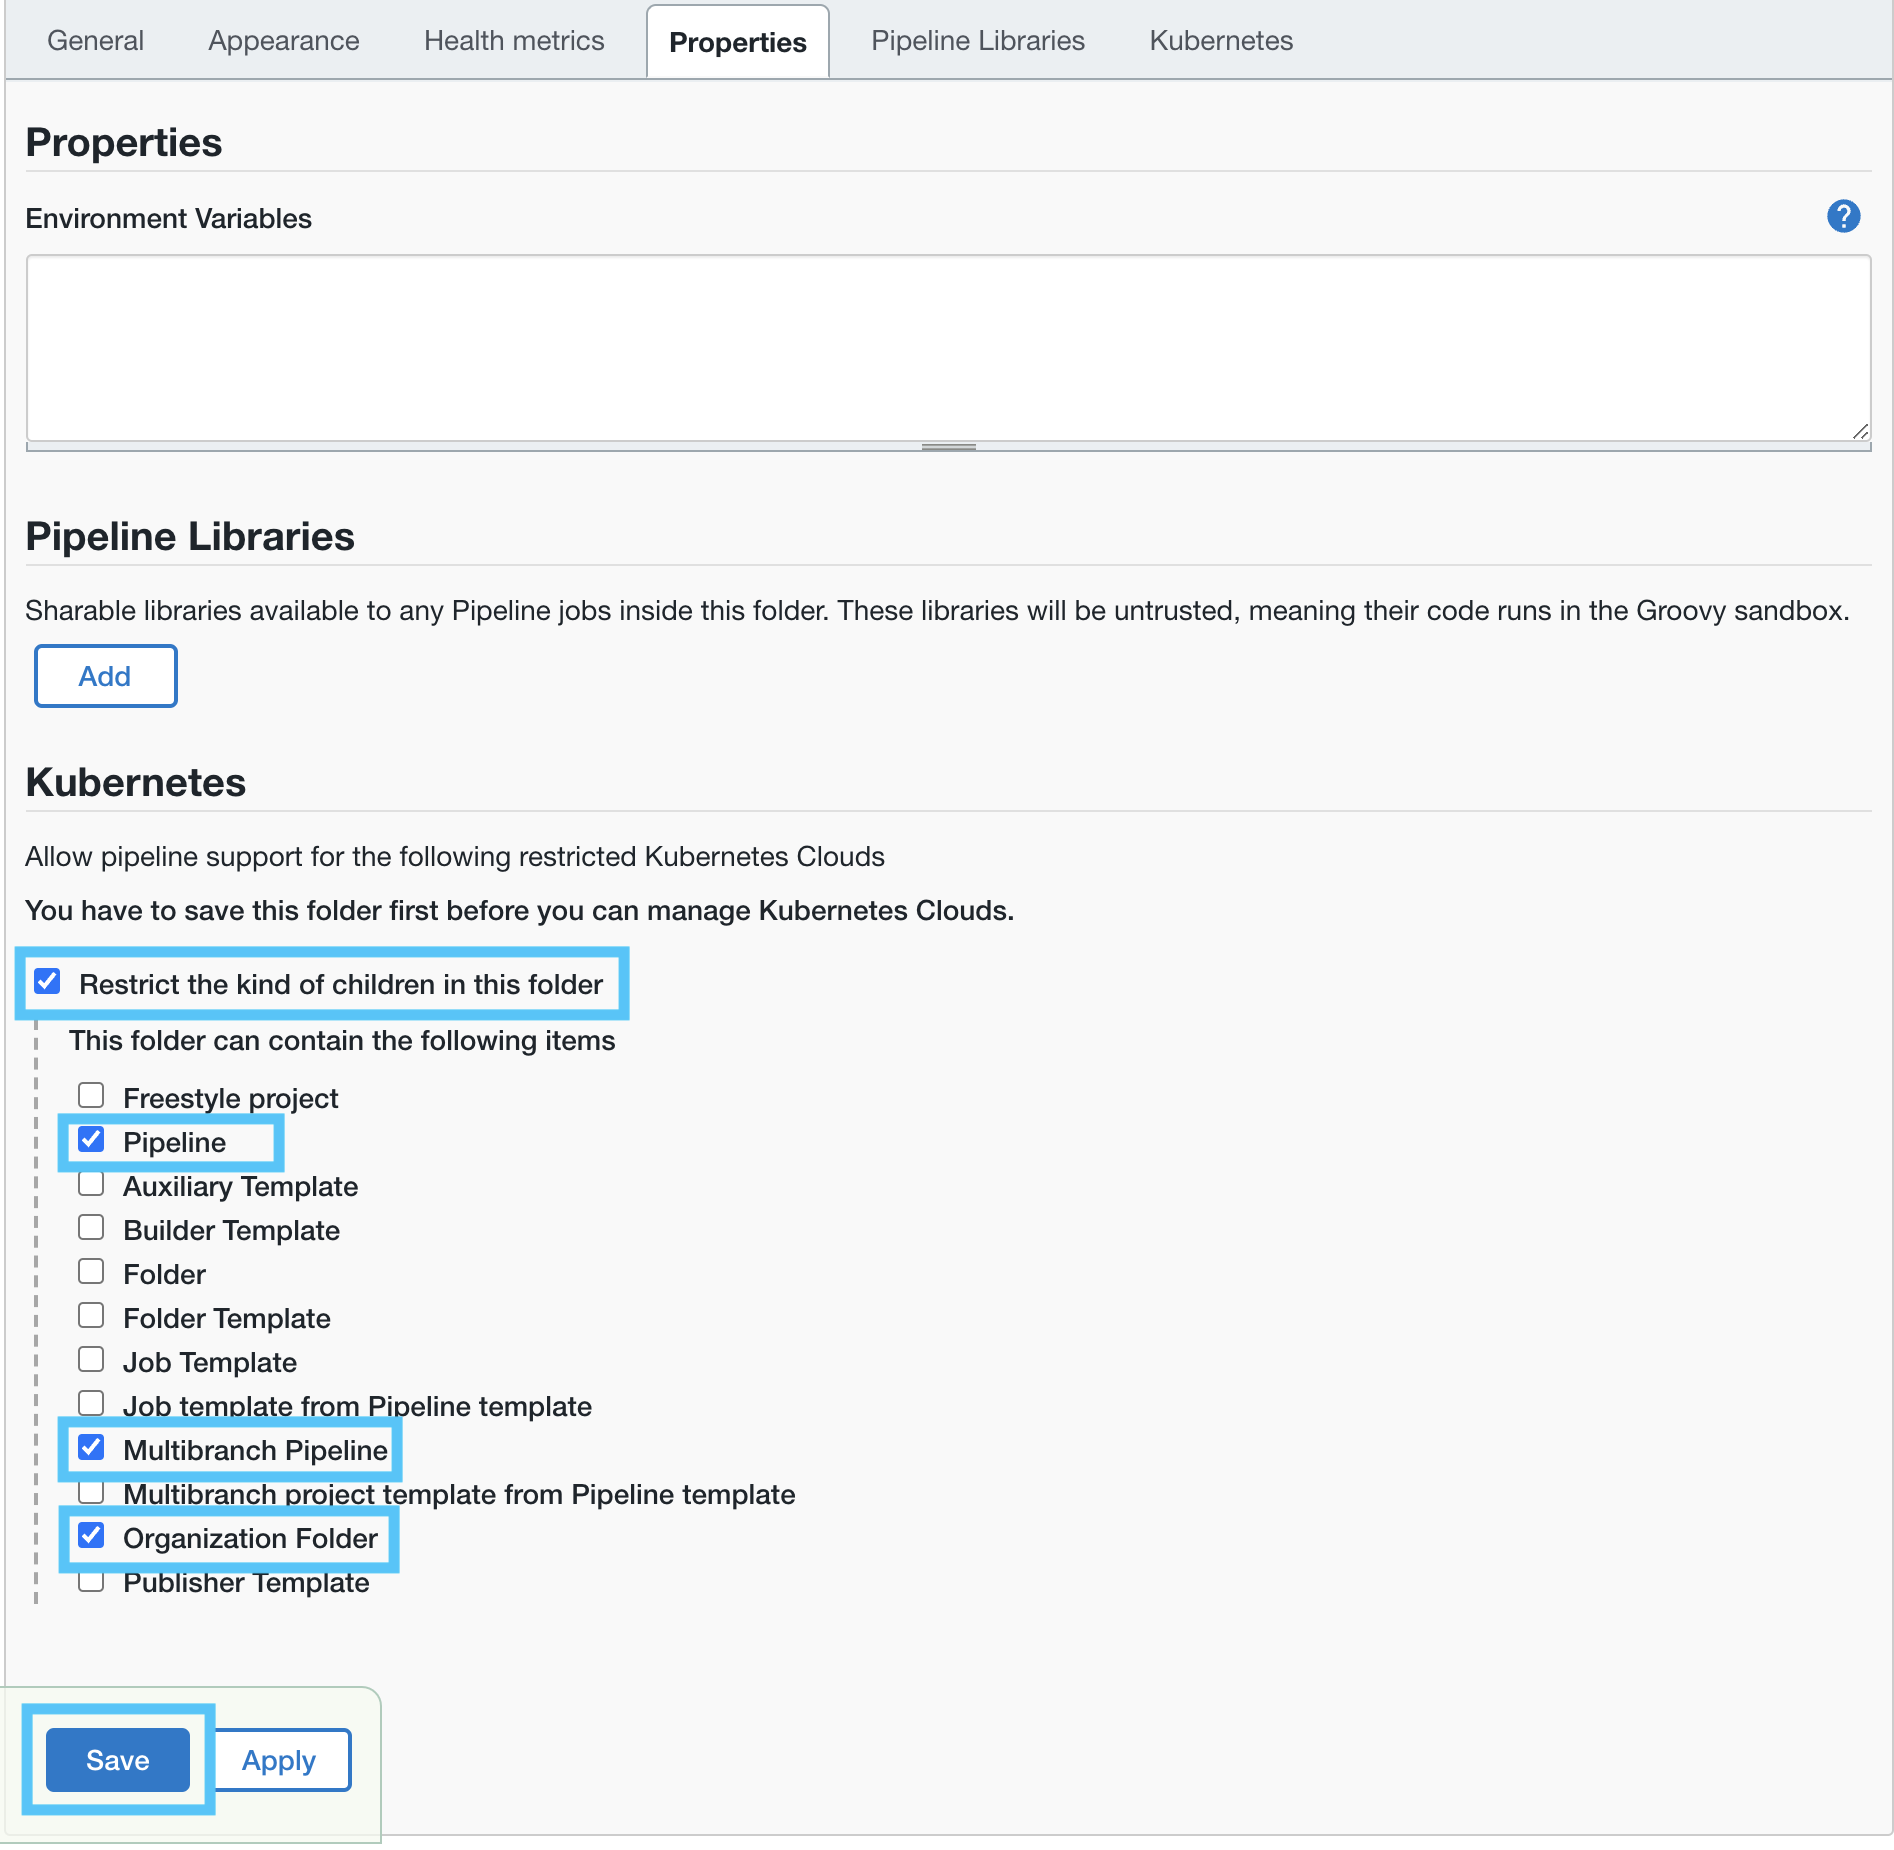
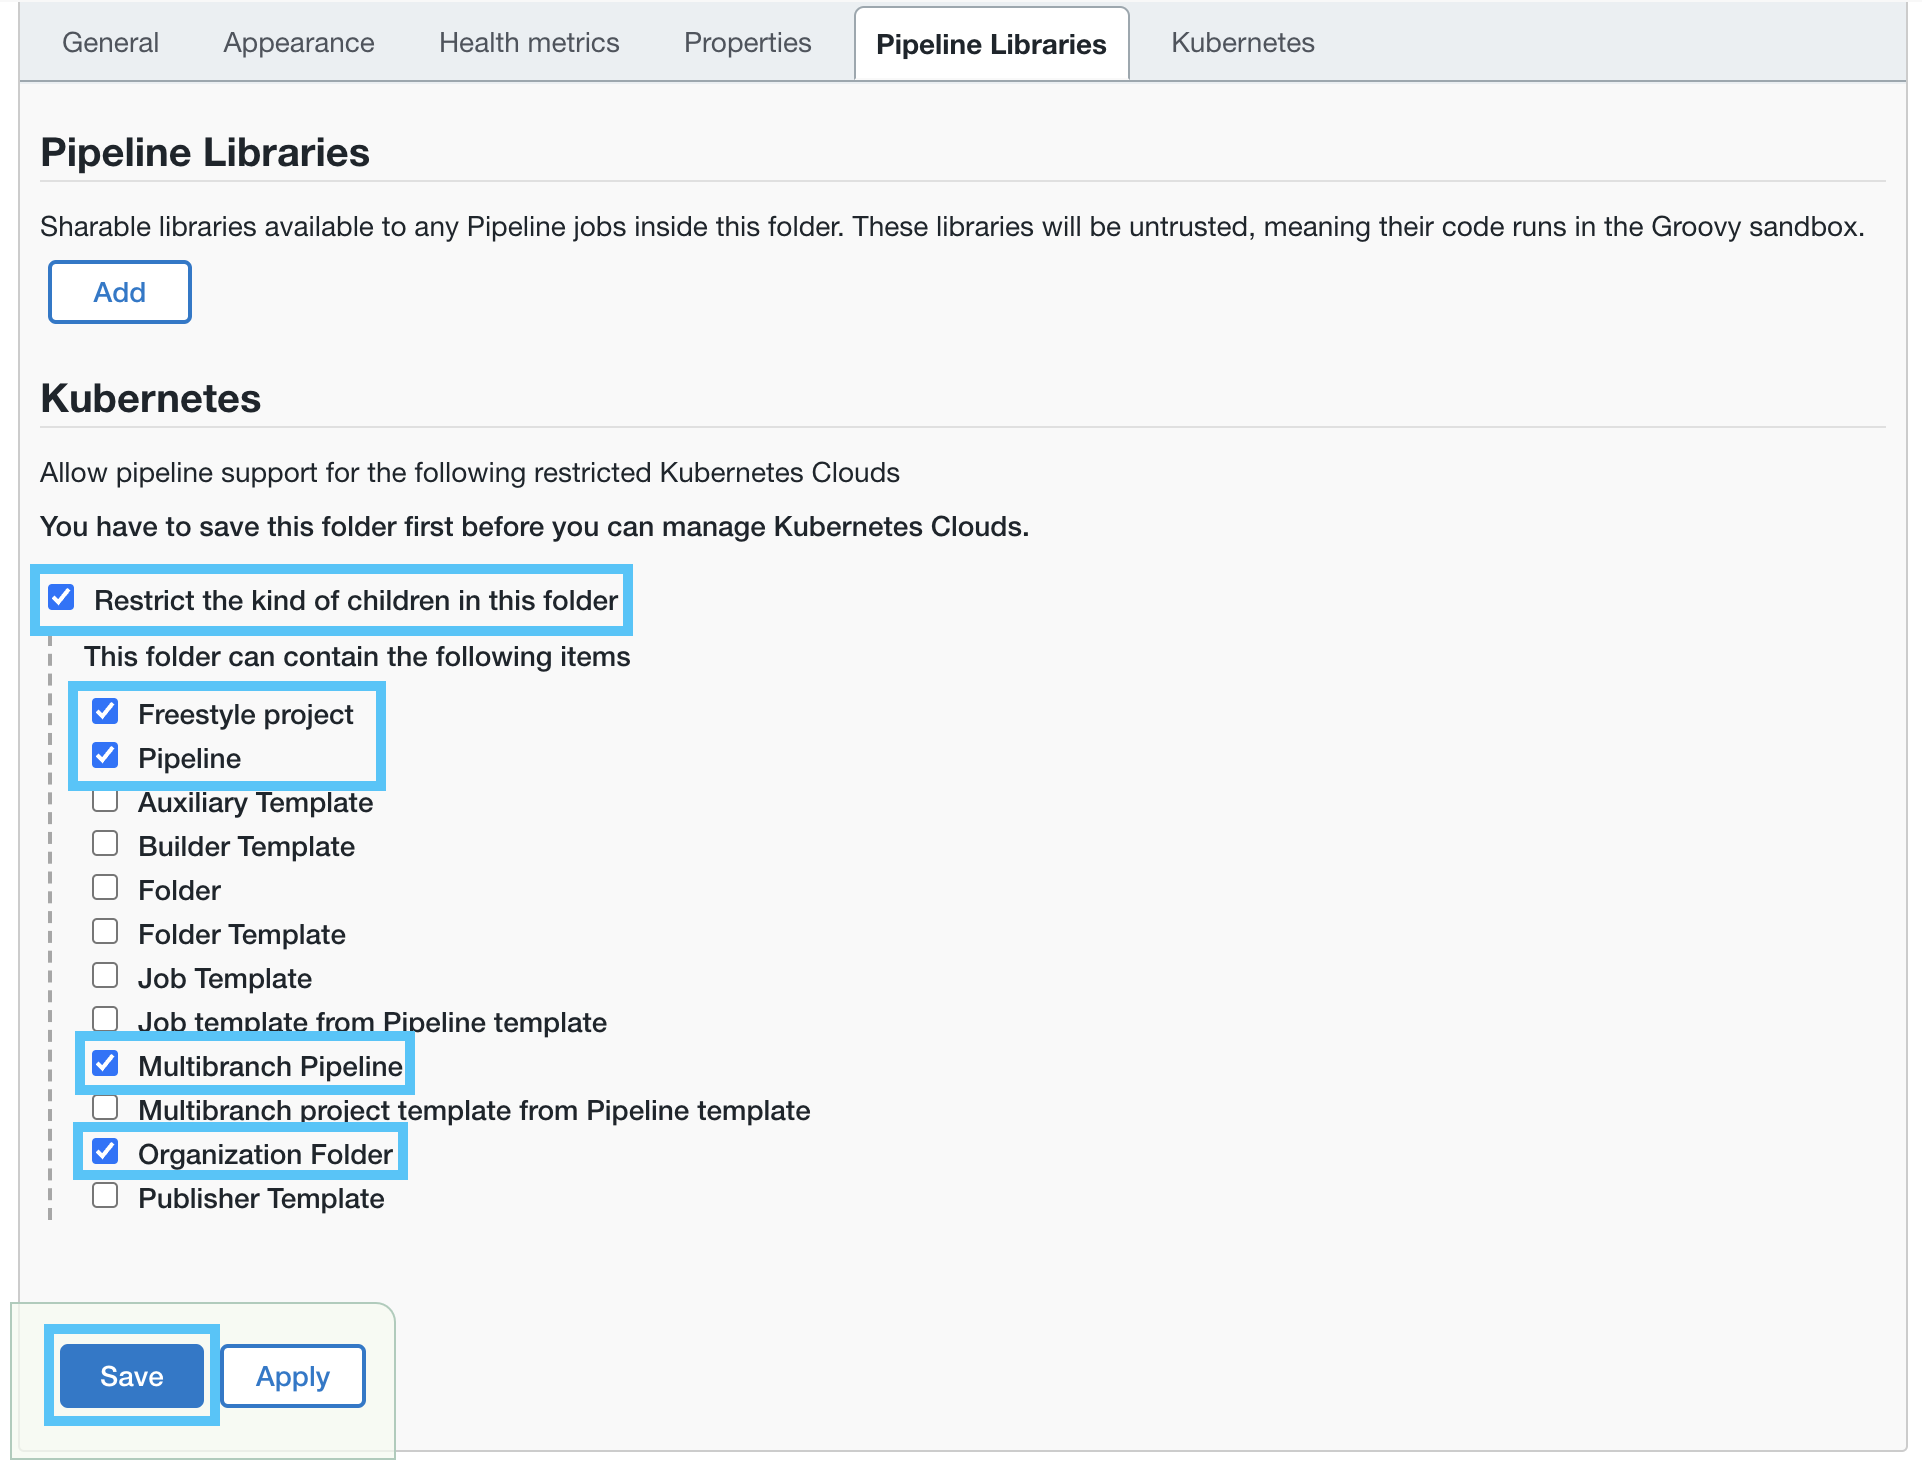
adding items

Changed region(s): [[0.0, 0.0, 0.9657, 1.0], [0.9657, 0.0, 1.0, 1.0], [0.4673, 0.2188, 0.5296, 0.25]]

diff --git a/labs/cloudbees-ci-casc/content/labs/bundle-composition.md b/labs/cloudbees-ci-casc/content/labs/bundle-composition.md
@@ -187,33 +187,19 @@ items:
 ```
 
 ## Creating/Updating a Configuration Bundle from a Bundle Export
-As you can see from the composition overview above, the YAML in the different configuration files can be somewhat complicated, and that is only with a few of the bundle file types and a fairly simple set of configurations. Luckily, CloudBees CI Configuration as Code (CasC) for Controllers supports an export capability that allows you to export the current configuration from an existing controller. In this lab you will make configurations changes on your Ops controller and then use the export feature to copy new or updated configuration to the files in the Ops controller branch of your `ops-controller` repository.
+As you can see from the composition overview above, the YAML in the different configuration files can be somewhat complicated, and that is only with a few of the bundle file types and a fairly simple set of configurations. Luckily, CloudBees CI Configuration as Code (CasC) for Controllers supports an export capability that allows you to export the current configuration from an existing controller. In this lab you will make configurations changes on your Ops controller using the UI and then use the export feature to copy new or updated configuration to the files in your `ops-controller` repository.
 
-1. Navigate to the top level of your Ops controller - it will be in the folder with the same name as your workshop GitHub Organization name (lower-cased).
-2. You will see a folder named `controller-jobs` and within that folder there will be a GitHub Organization job named `cbci-casc-automation` which we will take a deeper look at in the next lab.
+1. Navigate to the top level of your Ops controller - it will be in the folder with the same name as your workshop GitHub Organization name (lower-cased), and you will see a folder named `controller-jobs`.
 2. At the top level of your Ops controller, click on the **Mange Jenkins** link in the left menu. ![Manage Jenkins link](manage-jenkins-link.png?width=50pc) 
 3. On the **Manage Jenkins** page click on **Manage Plugins** under the **System Configuration** section. ![Manage Plugins link](manage-plugins-link.png?width=50pc) 
 4. On the **Plugin Manager** screen, click on the **Available** tab and enter ***CloudBees Restrict*** into the search box. Then check the **Install** checkbox for the **CloudBees Restricted Credentials Plugin** and then click the the **Install without restart** button. ![Search for Plugin](search-plugin.png?width=50pc) 
 5. Once the **CloudBees Restricted Credentials Plugin** is successfully installed, return to the top-level of your Ops controller and click on the **Mange Jenkins** link in the left menu. ![Install plugin](install-plugin.png?width=50pc) 
 6. On the **Manage Jenkins** page click on **CloudBees Configuration as Code export and update** under the **System Configuration** section. ![CloudBees CasC link](cloudbees-casc-link.png?width=50pc) 
-7. Next, on the **CloudBees Configuration as Code export and update** page under the **Current configuration** tab, click on the *visualize* link for the `plugin-catalog.yaml` **Filename**. A [plugin catalog](https://docs.cloudbees.com/docs/admin-resources/latest/plugin-management/configuring-plugin-catalogs) is used to include plugins that are not in the CloudBees Assurance Program (CAP); tested and used by your software delivery workloads. Since the **CloudBees Restricted Credentials Plugin** is not in CAP we must create a plugin catalog that includes that plugin so we may install it on a controller with CasC. ![Plugin Catalog visualize link](plugin-catalog-visualize-link.png?width=50pc) 
-8. A new browser page will open in a new tab or window with the auto-generated contents of a Plugin Catalog with the following contents:
-```yaml
-type: plugin-catalog
-version: '1'
-name: ops-controller
-displayName: Autogenerated catalog from ops-controller
-configurations:
-- description: Exported plugins
-  includePlugins:
-    cloudbees-restricted-credentials: {version: '0.1'}
-```
-
-9. Copy the contents of the `plugin-catalog.yaml` from above and then navigate to the `ops-controller` repository in your workshop GitHub Organization.
-10. Next click on the **Add file** button and then select **Create new file**. ![Create new file in GitHub](github-create-new-file.png?width=50pc)
-11. On the next screen, name the new file `plugin-catalog.yaml`, enter the contents from the `plugin-catalog.yaml` export. Then commit directly to the `main` branch. ![Commit plugin-catalog.yaml](commit-plugin-catalog.png?width=50pc)
-12. Plugins in the `plugin-catalog.yaml` are not actually installed on a controller, rather they just extend what can be installed outside of CAP. In order for a plugin to be installed via a configuration bundle you must add it to the `plugins.yaml`. Click on the `plugins.yaml` file and then click on the ***Edit this file*** pencil button. ![Edit plugins file GitHub](github-edit-plugins-file.png?width=50pc)
-13. In the GitHub file editor, add `- id: cloudbees-restricted-credentials` under the `# non-cap plugins` comment, and then commit directly to the `main` branch. ![Commit plugins.yaml](commit-plugins.png?width=50pc)
+7. Next, on the **CloudBees Configuration as Code export and update** page under the **Current configuration** tab, click on the *Copy content* link for the `plugin-catalog.yaml` **Filename**. A [plugin catalog](https://docs.cloudbees.com/docs/admin-resources/latest/plugin-management/configuring-plugin-catalogs) is used to include plugins that are not in the CloudBees Assurance Program (CAP); tested and used by your software delivery workloads. Since the **CloudBees Restricted Credentials Plugin** is not in CAP we must create a plugin catalog that includes that plugin so we may install it on a controller with CasC. ![Plugin Catalog visualize link](plugin-catalog-visualize-link.png?width=50pc) 
+8. Navigate to the `ops-controller` repository in your workshop GitHub Organization and click on the **Add file** button and then select **Create new file**. ![Create new file in GitHub](github-create-new-file.png?width=50pc)
+9. On the next screen, name the new file `plugin-catalog.yaml`, paste the contents from the `plugin-catalog.yaml` export. Then commit directly to the `main` branch. ![Commit plugin-catalog.yaml](commit-plugin-catalog.png?width=50pc)
+10. Plugins in the `plugin-catalog.yaml` are not actually installed on a controller, rather they just extend what can be installed outside of CAP. In order for a plugin to be installed via a configuration bundle you must add it to the `plugins.yaml`. Click on the `plugins.yaml` file and then click on the ***Edit this file*** pencil button. ![Edit plugins file GitHub](github-edit-plugins-file.png?width=50pc)
+11. In the GitHub file editor, add `- id: cloudbees-restricted-credentials` under the `# non-cap plugins` comment, and then commit directly to the `main` branch. ![Commit plugins.yaml](commit-plugins.png?width=50pc)
 
 {{%expand "expand for complete updated plugins.yaml file" %}}
 ```yaml
@@ -247,9 +233,10 @@ plugins:
 - id: cloudbees-restricted-credentials
 ```
 {{% /expand%}}
-14. In addition to updating the `plugins.yaml`, we also added the`plugin-catalog.yaml` file. But it is not listed in the `bundles.yaml`. In order to have that file used by configuration bundle on our controller, we need to add it to the `bundle.yaml` file, so click on the `bundles.yaml` file and then click on the ***Edit this file*** pencil button.
-15. In the GitHub file editor for the `bundle.yaml` file, update the `version` field to **2** and add the following configuration to the end of the `bundle.yaml` file:
+12. In addition to updating the `plugins.yaml`, we also added the`plugin-catalog.yaml` file. But it is not listed in the `bundles.yaml`. In order to have that file used by configuration bundle on our controller, we need to add it to the `bundle.yaml` file, so click on the `bundles.yaml` file and then click on the ***Edit this file*** pencil button.
+13. In the GitHub file editor for the `bundle.yaml` file, update the `version` field to **2** and add the following configuration to the end of the `bundle.yaml` file:
 ```yaml
+
 catalog:
   - "plugin-catalog.yaml"
 ```
@@ -258,15 +245,16 @@ catalog:
 In previous versions of CloudBees CI Configuration as Code (CasC) for Controllers the `version` field of the `bundle.yaml` file had to be modified in order for an update to be triggered for controllers using that bundle. This is no longer required as any change in any file in a bundle will trigger a bundle update for any controllers using the updated bundle once those changes are copied to the JCasC bundle directory on Operations Center. However, it is still considered a best practice to increment the bundle version.
 {{% /notice %}}
 
-16. Commit the `bundle.yaml` file directly to the `main` branch of your `ops-controller` repository. ![Commit bundle.yaml](commit-bundle.png?width=50pc)
-17. Navigate back to the top level of your Ops controller, click on the **controller-jobs** folder.  ![Controller jobs](controller-jobs-folder.png?width=50pc) 
-18. On the **controller-jobs** folder click on the **Configure** left menu item. ![Configure folder](configure-folder-link.png?width=50pc) 
-19. Scroll to the bottom of the folder configuration and click on **Restrict the kind of children in this folder** - a [CloudBees Folders Plus](https://docs.cloudbees.com/docs/cloudbees-core/latest/cloud-secure-guide/folders-plus) feature - and then select **Pipeline**, **Multibranch Pipeline** and **Organization Folder** so only Jenkins Pipeline type jobs are allowed to be created in the folder; and then hit the **Save** button. ![Configure folder](configure-folder.png?width=50pc) 
-20. Navigate back to the top-level of your Ops controller and click on the **Manage Jenkins** link in the left menu. ![Folder updated](folder-created.png?width=50pc) 
-21. Next, On the **Manage Jenkins** page click on **CloudBees Configuration as Code export and update** under the **System Configuration** section.
-22. On the **CloudBees Configuration as Code export and update** page of your Ops controller, instead of clicking the *visualize* link, click the *Copy content* link for the `items.yaml` **Filename**. ![Items copy content link](items-copy-content-link.png?width=50pc) 
-23. Navigate to the top level of your copy of the `ops-controller` and click on the `items.yaml` file and then click on the ***Edit this file*** pencil button. ![Edit items.yaml](edit-items.png?width=50pc)
-24. Replace the entire contents of the file with the contents you copied from the `items.yaml` export and then commit directly to the `main` branch. ![Commit items.yaml](commit-items.png?width=50pc)
+14. Commit the `bundle.yaml` file directly to the `main` branch of your `ops-controller` repository. ![Commit bundle.yaml](commit-bundle.png?width=50pc)
+15. Navigate back to the top level of your Ops controller, click on the **controller-jobs** folder.
+16. On the **controller-jobs** folder screen, click on the **Configure** left menu item. ![Configure folder](configure-folder-link.png?width=50pc) 
+17. Scroll to the bottom of the folder configuration and click on **Restrict the kind of children in this folder** - a [CloudBees Folders Plus](https://docs.cloudbees.com/docs/cloudbees-core/latest/cloud-secure-guide/folders-plus) feature - and then select **Freestyle project**, **Pipeline**, **Multibranch Pipeline** and **Organization Folder** so only Jenkins Pipeline type jobs are allowed to be created in the folder; and then hit the **Save** button. ![Configure folder](configure-folder.png?width=50pc) 
+18. Navigate back to the top-level of your Ops controller and click on the **Manage Jenkins** link in the left menu. ![Folder updated](folder-created.png?width=50pc) 
+19. Next, On the **Manage Jenkins** page click on **CloudBees Configuration as Code export and update** under the **System Configuration** section.
+20. On the **CloudBees Configuration as Code export and update** page of your Ops controller, instead of clicking the *Copy content* link, click the *Visualize* link for the `items.yaml` **Filename**. ![Items copy content link](items-copy-content-link.png?width=50pc) 
+21. A new browser page will open in a new tab or window with the auto-generated contents portraying all the `items` on your controller. Copy the `properties` section at the bottom. This is the only fragment we need to add to the `items.yaml` file in the `ops-controller` repository. ![Copy folder properties](copy-folder-properties.png?width=50pc)
+22. Navigate to the top level of your copy of the `ops-controller` repository and click on the `items.yaml` file and then click on the ***Edit this file*** pencil button. ![Edit items.yaml](edit-items.png?width=50pc)
+23. Paste the `properties` fragment you copied from the `items.yaml` export right below `name: controller-jobs` and then commit directly to the `main` branch. ![Commit items.yaml](commit-items.png?width=50pc)
 
 {{%expand "expand for complete updated items.yaml file" %}}
 ```yaml
@@ -277,19 +265,34 @@ items:
 - kind: folder
   displayName: controller-jobs
   name: controller-jobs
-  description: ''
+  properties:
+  - envVars: {}
+  - kubernetesFolderProperty: {}
+  - itemRestrictions:
+      allowedTypes:
+      - org.jenkinsci.plugins.workflow.job.WorkflowJob
+      - jenkins.branch.OrganizationFolder
+      - org.jenkinsci.plugins.workflow.multibranch.WorkflowMultiBranchProject
+      filter: true
   items:
-  - orphanedItemStrategy:
+  - kind: organizationFolder
+    displayName: cbci-casc-automation
+    name: cbci-casc-automation
+    orphanedItemStrategy:
       defaultOrphanedItemStrategy:
         pruneDeadBranches: true
         daysToKeep: -1
         numToKeep: -1
-    kind: organizationFolder
-    displayName: cbci-casc-automation
-    name: cbci-casc-automation
+    SCMSources:
     navigators:
     - github:
         apiUri: https://api.github.com
+        traits:
+        - gitHubBranchDiscovery:
+            strategyId: 1
+        - headWildcardFilter:
+            excludes: ''
+            includes: main
         repoOwner: cbci-casc-workshop
         credentialsId: cloudbees-ci-casc-workshop-github-app
     projectFactories:
@@ -310,20 +313,6 @@ items:
                     - branchSpec:
                         name: '*/main'
                 lightweight: true
-    trigger:
-      periodicFolderTrigger:
-        interval: 1d
-    strategy:
-      allBranchesSame: {}
-  properties:
-  - envVars: {}
-  - kubernetesFolderProperty: {}
-  - itemRestrictions:
-      allowedTypes:
-      - org.jenkinsci.plugins.workflow.job.WorkflowJob
-      - jenkins.branch.OrganizationFolder
-      - org.jenkinsci.plugins.workflow.multibranch.WorkflowMultiBranchProject
-      filter: true
 ```
 {{% /expand%}}
 
